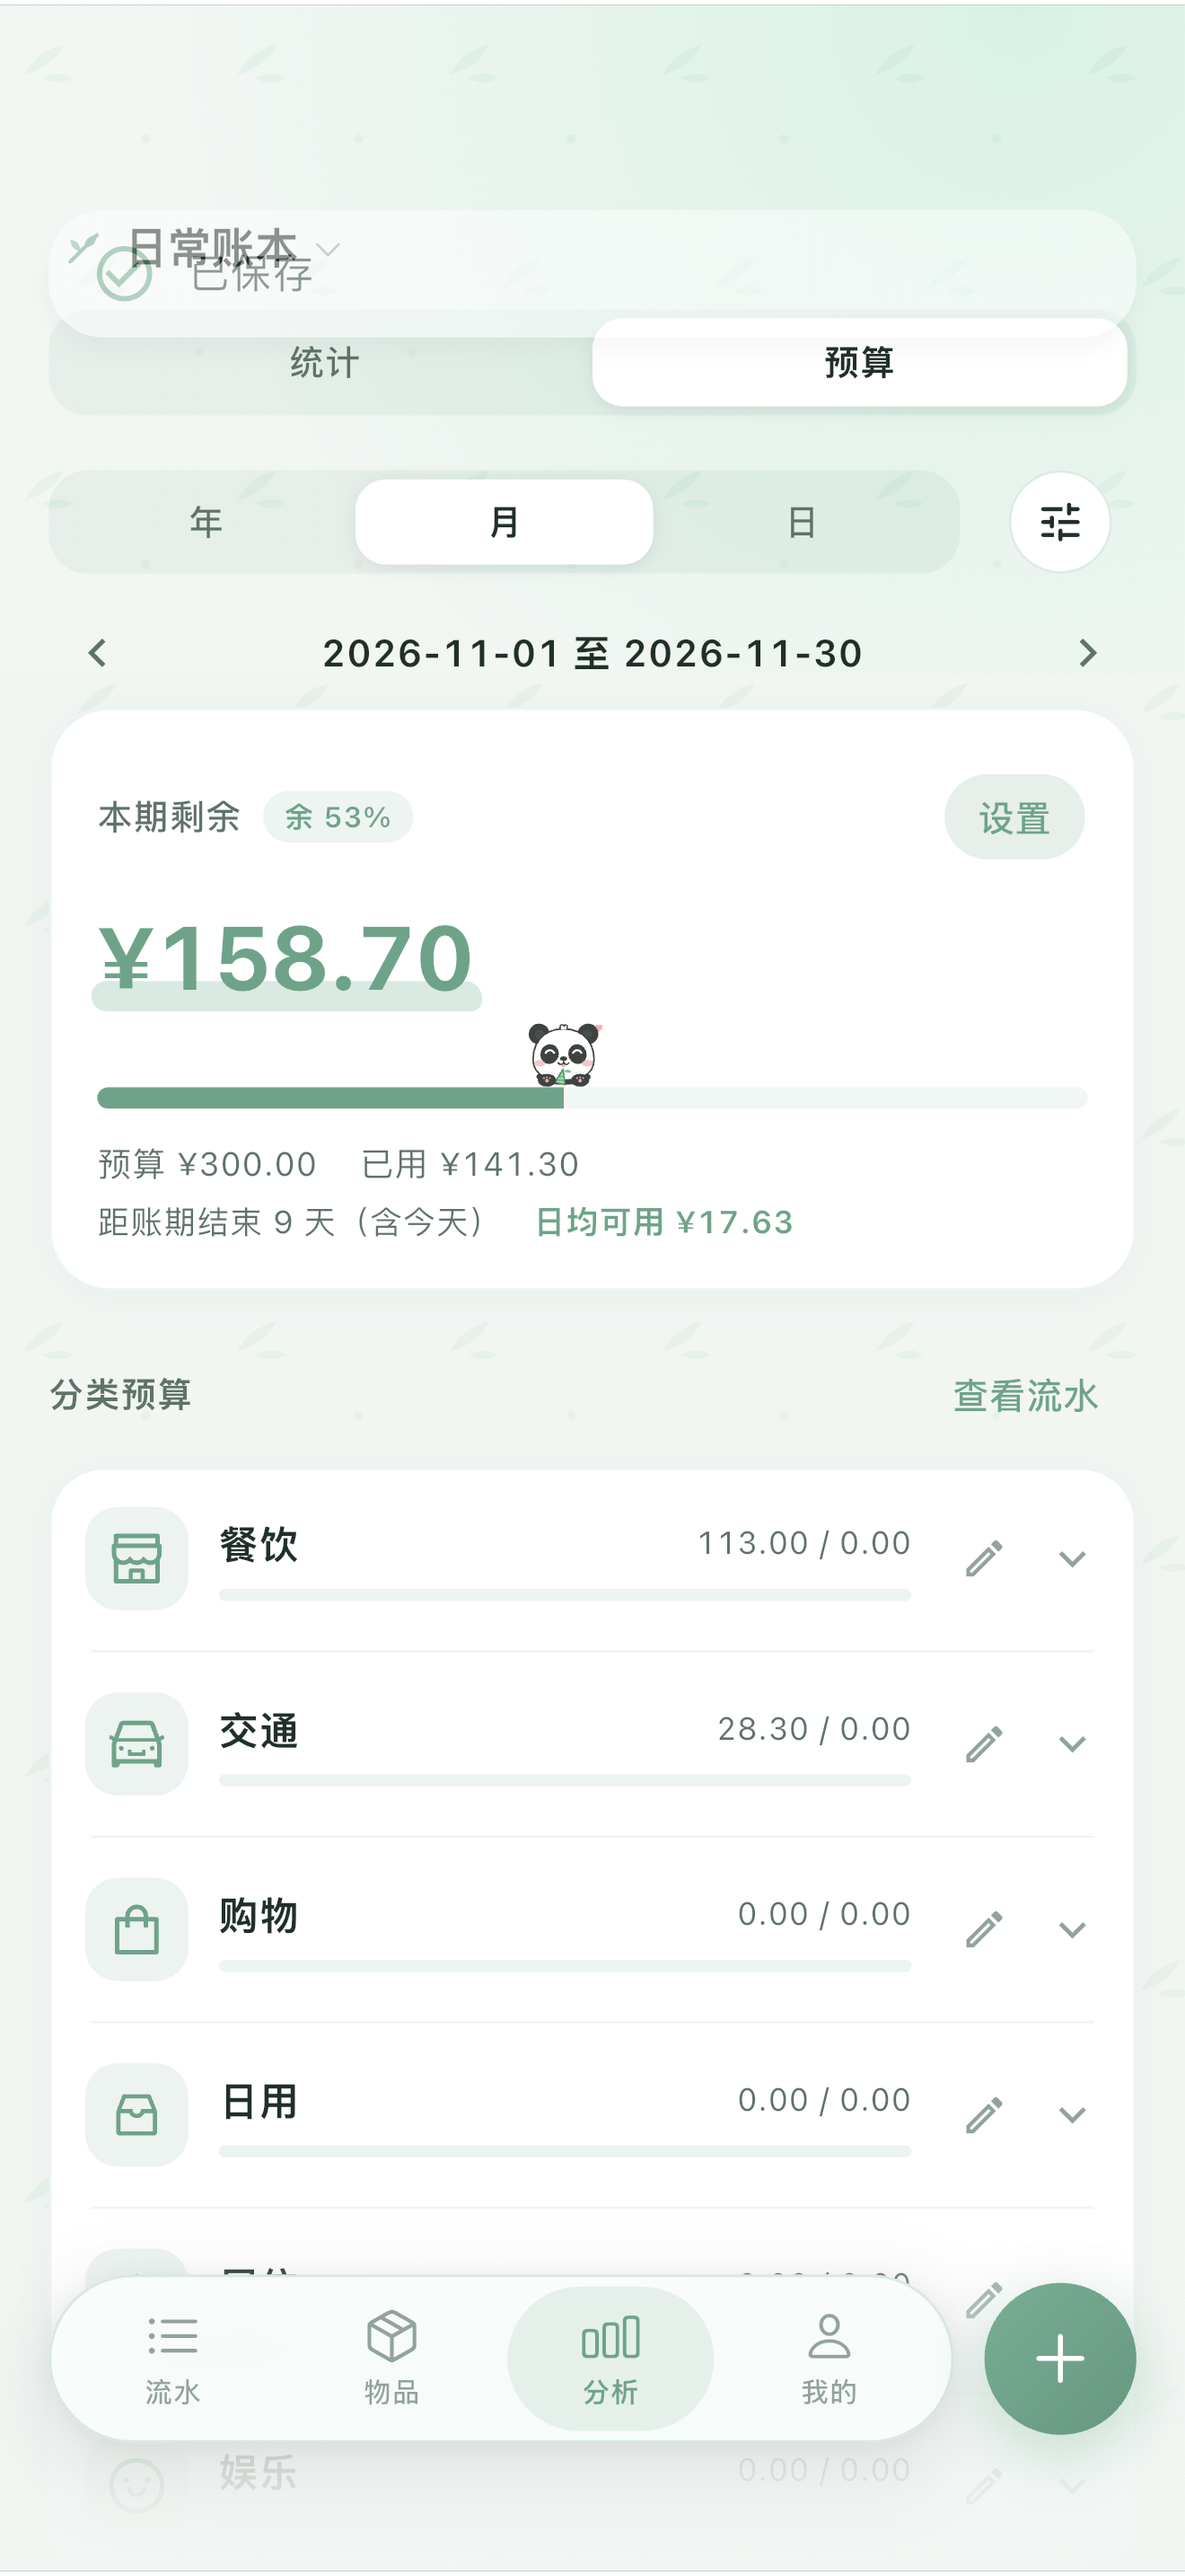
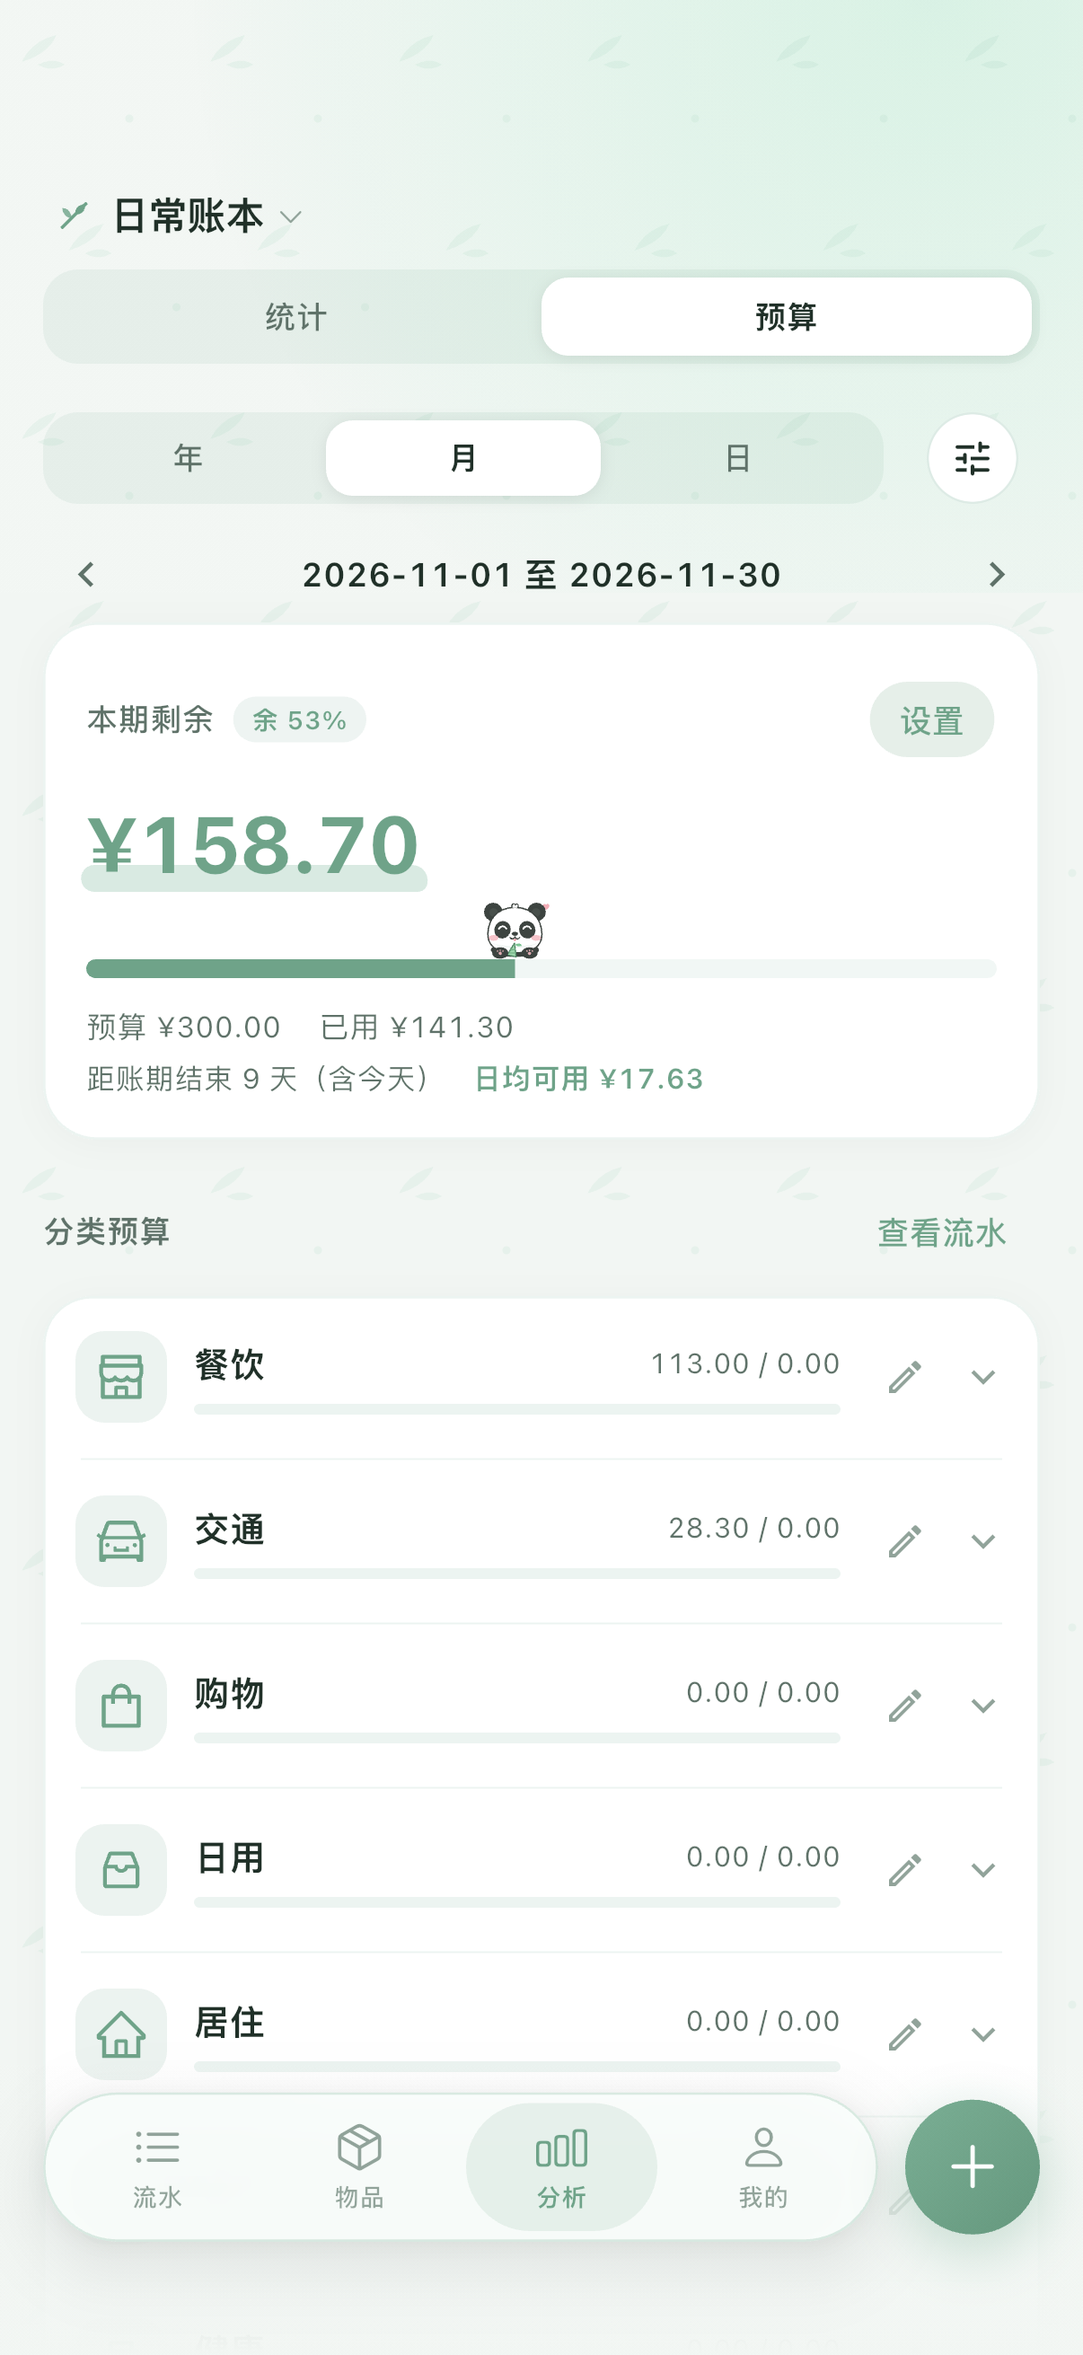
更新真实展示截图并清除提示遮挡

diff --git a/README.md b/README.md
@@ -9,9 +9,9 @@
 
 核心记账无需账号、无需自建服务器。数据保存在本机，你可以导出文件，也可以备份到自己的 WebDAV。
 
-<table><tr><td width="33%"><img src="docs/screenshots/01-flow-panda.png" alt="按日查看收支"></td><td width="33%"><img src="docs/screenshots/03-belongings-panda.png" alt="独立物品管理"></td><td width="33%"><img src="docs/screenshots/04-budget-panda.png" alt="预算分析"></td></tr><tr><td align="center">日常收支，一眼看清</td><td align="center">物品陪伴，心里有数</td><td align="center">预算进度，随时掌握</td></tr></table>
+<table><tr><td width="33%"><img src="docs/screenshots/01-flow-cat.png" alt="按日查看收支"></td><td width="33%"><img src="docs/screenshots/03-belongings-panda.png" alt="独立物品管理"></td><td width="33%"><img src="docs/screenshots/04-budget-panda.png" alt="预算分析"></td></tr><tr><td align="center">日常收支，一眼看清</td><td align="center">物品陪伴，心里有数</td><td align="center">预算进度，随时掌握</td></tr></table>
 
-<p align="center">0.8.3 界面 · 滚滚熊猫主题</p>
+<p align="center">0.8.3 实际界面 · 橘猫喵账 / 滚滚熊猫主题</p>
 
 ## 下载与体验
 

diff --git a/CHANGELOG.md b/CHANGELOG.md
@@ -1,5 +1,10 @@
 # 更新日志
 
+## 项目展示截图更新 — 2026-11-22 14:57
+
+- 流水、物品与预算改用同版干净截图，消除瞬态保存提示对顶部内容的遮挡。
+- 同步仓库内官网的对应图片；不修改 App 功能。
+
 ## 0.8.3 · GitHub 首版整理 — 2026-11-22 14:42
 
 - 提供当前 Flutter 客户端、原生小组件、测试与官网源码。
